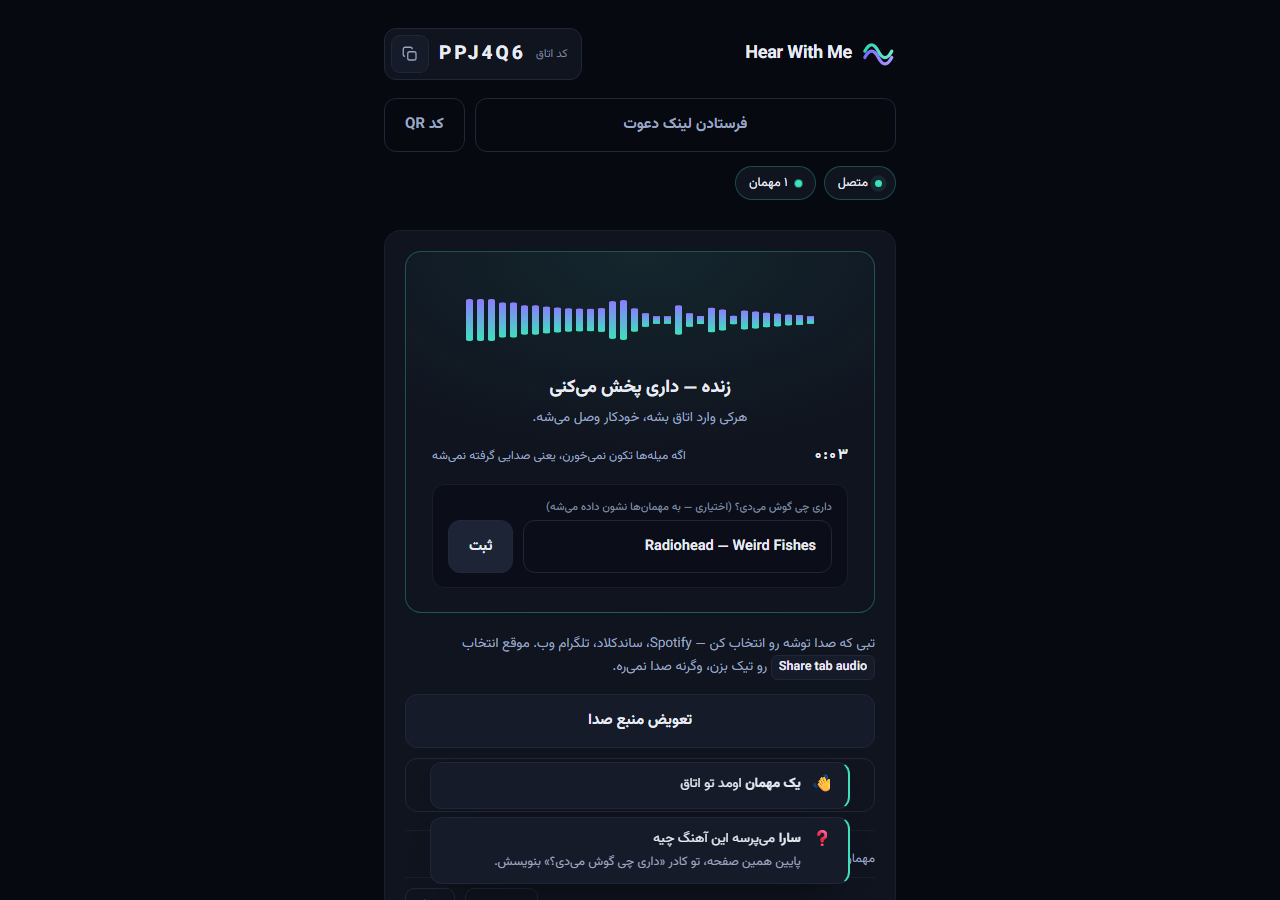
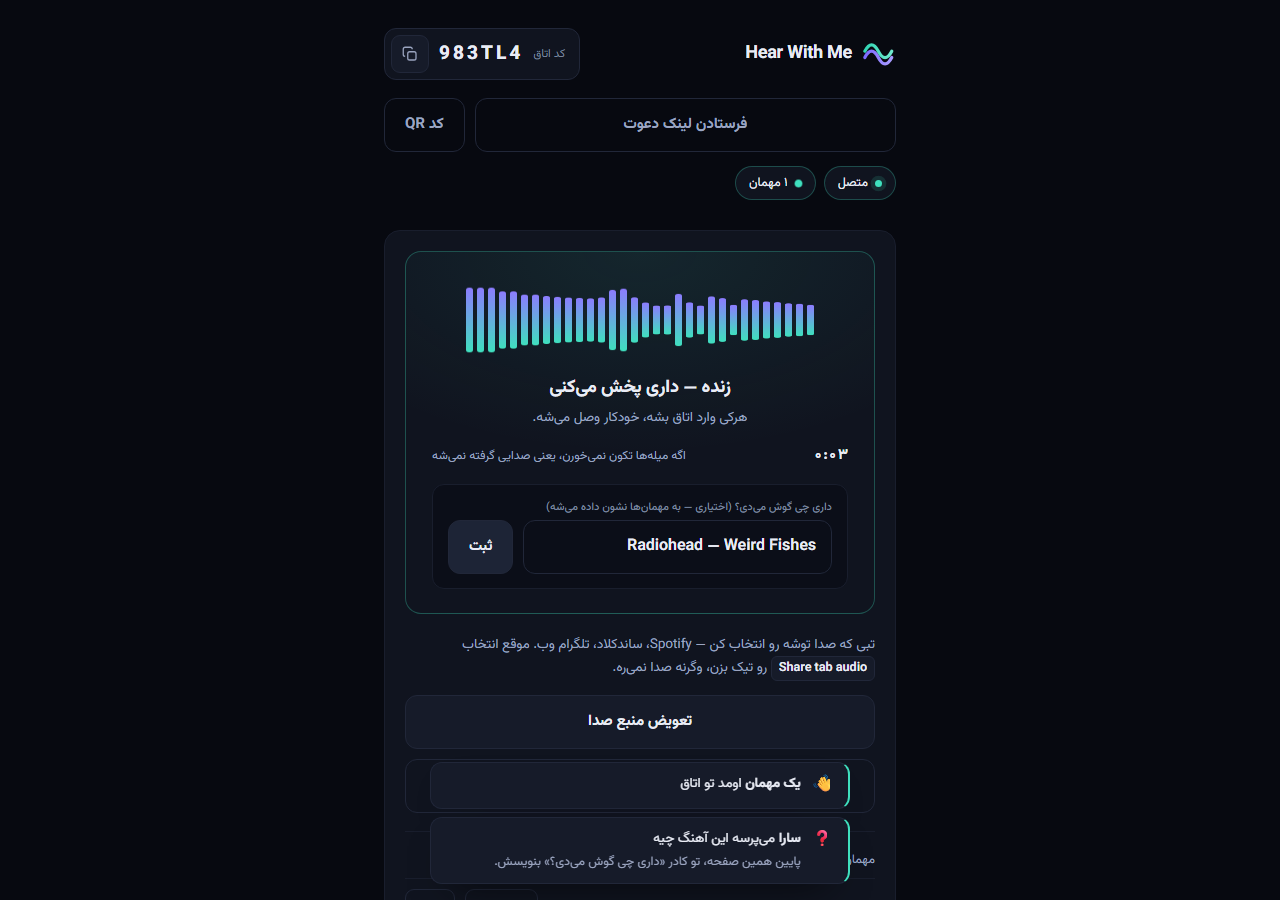
Snapshot of uncommitted UI work before the reach changes
These edits were in the working tree, uncommitted, when the reach work
started (reaction emoji variation selector, code plate, refreshed docs
screenshots). Committed as-is so later changes have a clean base.

diff --git a/public/style.css b/public/style.css
@@ -29,12 +29,20 @@
 }
 
 :root {
+  /* Every native control the page uses — checkboxes, the select's popup, the
+     range track, the scrollbar — is painted by the browser, and without this
+     it paints them for a light page: white boxes on an ink panel. */
+  color-scheme: dark;
+
   /* ground */
   --ink: #070910;
   --ink-2: #0B0E18;
+  --ink-3: #0D111C;   /* a field with the cursor in it */
   --panel: #10141F;
   --panel-2: #161B29;
+  --panel-3: #1D2436; /* the same control, under the pointer */
   --line: #212739;
+  --line-strong: #2E3650;
   --line-soft: #191E2D;
 
   /* type */
@@ -231,14 +239,14 @@ a { color: var(--signal); text-decoration-thickness: 1px; text-underline-offset:
   color: var(--text);
   border-color: var(--line);
 }
-.btn-secondary:hover { background: #1D2436; }
+.btn-secondary:hover { background: var(--panel-3); }
 
 .btn-ghost {
   background: transparent;
   color: var(--muted);
   border-color: var(--line);
 }
-.btn-ghost:hover { color: var(--text); border-color: #2E3650; }
+.btn-ghost:hover { color: var(--text); border-color: var(--line-strong); }
 
 /* An <a> that has to look like the primary action. */
 .btn-link { text-decoration: none; }
@@ -294,6 +302,10 @@ a { color: var(--signal); text-decoration-thickness: 1px; text-underline-offset:
 input[type="text"] {
   width: 100%;
   font: inherit;
+  /* 16px, not the body's 15: below 16 iOS zooms the whole page in the moment
+     the keyboard opens and never zooms back out — on the one field the guest
+     actually types into, holding the phone one-handed. */
+  font-size: 16px;
   padding: 13px 15px;
   min-height: 52px;
   border-radius: var(--r-control);
@@ -302,7 +314,12 @@ input[type="text"] {
   color: var(--text);
   transition: border-color .18s var(--ease), background-color .18s var(--ease);
 }
-input[type="text"]:focus { border-color: var(--signal); background: #0D111C; }
+input[type="text"]:focus { border-color: var(--signal); background: var(--ink-3); }
+/* A field already lights its own border when it takes focus; the offset ring
+   on top of it read as two concentric aqua outlines. Sat against the border,
+   the two become one thicker edge. */
+input[type="text"]:focus-visible,
+.select:focus-visible { outline-offset: 0; }
 /* Placeholders are read, so they meet the same 4.5:1 floor as body text. */
 input::placeholder { color: var(--faint); opacity: 1; }
 
@@ -313,8 +330,10 @@ input::placeholder { color: var(--faint); opacity: 1; }
 .row > input { flex: 1; min-width: 0; }
 .row > .btn { flex: none; }
 
-/* Room codes are read aloud and typed in — treat them as a plate, not prose. */
-.code-input {
+/* Room codes are read aloud and typed in — treat them as a plate, not prose.
+   Qualified with the element: `input[type="text"]` above outranks a bare class,
+   so the plate's weight and size were being handed straight back to body type. */
+input[type="text"].code-input {
   direction: ltr;
   text-align: center;
   text-transform: uppercase;
@@ -339,6 +358,9 @@ input::placeholder { color: var(--faint); opacity: 1; }
   line-height: 1.6;
 }
 .note-strong { color: var(--text); font-weight: 600; }
+/* A note that follows a block it belongs to, rather than sitting inside one. */
+.note-stacked { margin-top: 14px; }
+.below .note-stacked { margin-top: 20px; }
 
 .footer-note {
   margin-top: auto;
@@ -368,10 +390,15 @@ input::placeholder { color: var(--faint); opacity: 1; }
   background: var(--panel);
   border: 1px solid var(--line);
   border-radius: 12px;
+  /* The copy button carries the end padding itself. */
   padding: 6px;
   padding-inline-start: 14px;
 }
-.code-plate .label { font-size: 11.5px; color: var(--faint); }
+/* Once there is nothing left to copy, it has to carry its own. */
+.code-plate.is-bare { padding: 8px 14px; }
+/* Two words that mean nothing broken apart: left to wrap, "کد اتاق" stacked
+   into a column and dragged the whole header a line taller. */
+.code-plate .label { font-size: 11.5px; color: var(--faint); white-space: nowrap; }
 .room-code {
   direction: ltr;
   font-size: 19px;
@@ -394,7 +421,7 @@ input::placeholder { color: var(--faint); opacity: 1; }
   transition: color .18s var(--ease), background-color .18s var(--ease), border-color .18s;
 }
 .icon-btn:hover { color: var(--text); }
-.icon-btn.done { color: var(--signal); border-color: rgba(63,224,190,.4); }
+.icon-btn.done { color: var(--signal); border-color: color-mix(in srgb, var(--signal) 40%, transparent); }
 .icon-btn svg { width: 18px; height: 18px; }
 
 .share-row { margin-bottom: 14px; display: flex; gap: 10px; }
@@ -443,19 +470,24 @@ input::placeholder { color: var(--faint); opacity: 1; }
 }
 /* The name field shares this row with its label and must not push it out. */
 .tool-row input[type="text"] { flex: 1; min-width: 0; max-width: 60%; }
-.tool-label { font-size: 12.5px; color: var(--muted); }
+/* A two-word label opposite a control is a label, not a paragraph: broken over
+   two lines it stops reading as one. */
+.tool-label { font-size: 12.5px; color: var(--muted); white-space: nowrap; }
 .tool-hint { font-size: 12px; color: var(--faint); margin-top: -6px; }
 
 .select {
   font: inherit;
-  font-size: 13.5px;
+  /* Same 16px floor as the text fields, and the same reason: a select under it
+     zooms iOS in on tap. The room page's 46px touch floor applies here too. */
+  font-size: 16px;
   color: var(--text);
   background: var(--ink-2);
   border: 1px solid var(--line);
   border-radius: var(--r-control);
   padding: 9px 12px;
-  min-height: 44px;
+  min-height: 46px;
   cursor: pointer;
+  max-width: 100%;
 }
 
 .toggle {
@@ -518,8 +550,8 @@ input::placeholder { color: var(--faint); opacity: 1; }
   min-height: 34px;
   transition: color .18s var(--ease), border-color .18s var(--ease);
 }
-.link-btn:hover { color: var(--text); border-color: #2E3650; }
-.link-btn.danger:hover { color: var(--st-alert); border-color: rgba(255,124,136,.4); }
+.link-btn:hover { color: var(--text); border-color: var(--line-strong); }
+.link-btn.danger:hover { color: var(--st-alert); border-color: color-mix(in srgb, var(--st-alert) 40%, transparent); }
 
 /* ------------------------------------------------------------- reactions */
 
@@ -541,11 +573,14 @@ input::placeholder { color: var(--faint); opacity: 1; }
   color: var(--muted);
   padding: 10px 15px;
   min-height: 46px;
+  /* The two single-glyph ones would otherwise sit under the touch floor the
+     rest of this row keeps. */
+  min-width: 46px;
   transition: color .18s var(--ease), border-color .18s var(--ease), transform .12s var(--ease);
 }
 .reaction:hover { color: var(--text); }
 .reaction:active { transform: translateY(1px); }
-.reaction.sent { color: var(--signal); border-color: rgba(63,224,190,.45); }
+.reaction.sent { color: var(--signal); border-color: color-mix(in srgb, var(--signal) 45%, transparent); }
 /* A tap that arrived inside the cooldown. Without this the button simply did
    nothing and read as broken. */
 .reaction.cooling { opacity: .45; }
@@ -625,7 +660,7 @@ input::placeholder { color: var(--faint); opacity: 1; }
 }
 .toast-alert {
   border-inline-start-color: var(--st-alert);
-  background: rgba(255, 124, 136, .07);
+  background: color-mix(in srgb, var(--st-alert) 7%, transparent);
 }
 .toast-alert .toast-body b { color: #FFC2C8; }
 .toast.leaving { opacity: 0; transform: translateY(8px); }
@@ -656,7 +691,7 @@ input::placeholder { color: var(--faint); opacity: 1; }
   flex: none;
   transition: background-color .3s var(--ease);
 }
-.pill.live { color: var(--text); border-color: rgba(63,224,190,.28); }
+.pill.live { color: var(--text); border-color: color-mix(in srgb, var(--signal) 28%, transparent); }
 .pill.live .dot {
   background: var(--st-live);
   animation: beat 2.4s ease-in-out infinite;
@@ -690,7 +725,7 @@ input::placeholder { color: var(--faint); opacity: 1; }
 }
 .stage[data-state="waiting"] { --st: var(--st-wait); }
 .stage[data-state="connecting"] { --st: var(--st-connect); }
-.stage[data-state="live"] { --st: var(--st-live); border-color: rgba(63, 224, 190, .3); }
+.stage[data-state="live"] { --st: var(--st-live); border-color: color-mix(in srgb, var(--signal) 30%, transparent); }
 .stage[data-state="stopped"] { --st: var(--st-idle); }
 .stage[data-state="dropped"], .stage[data-state="error"] { --st: var(--st-alert); }
 
@@ -826,7 +861,6 @@ input::placeholder { color: var(--faint); opacity: 1; }
   transform: scaleY(0.04);
   transform-origin: center; /* mirrored around the centre line */
   will-change: transform;
-  transition: background-color .3s var(--ease);
 }
 .meter.idle span {
   background: var(--panel-2);
@@ -863,6 +897,8 @@ input::placeholder { color: var(--faint); opacity: 1; }
   word-break: break-word;
   text-align: start;
 }
+/* The host's version of the same block is a labelled field, not a read-out. */
+.now-playing--field { padding: 14px 15px; }
 .now-playing .np-label {
   display: block;
   font-size: 11px;
@@ -896,8 +932,8 @@ input::placeholder { color: var(--faint); opacity: 1; }
 .mute-btn .wave-off { display: none; }
 .mute-btn[aria-pressed="true"] {
   color: var(--st-alert);
-  border-color: rgba(255, 124, 136, .35);
-  background: rgba(255, 124, 136, .1);
+  border-color: color-mix(in srgb, var(--st-alert) 35%, transparent);
+  background: color-mix(in srgb, var(--st-alert) 10%, transparent);
 }
 .mute-btn[aria-pressed="true"] .wave-on { display: none; }
 .mute-btn[aria-pressed="true"] .wave-off { display: inline; }
@@ -921,8 +957,8 @@ input::placeholder { color: var(--faint); opacity: 1; }
 .notice-text { flex: 1; }
 /* Something that went wrong looks different from something that just changed. */
 .notice-alert {
-  background: rgba(255, 124, 136, .1);
-  border-color: rgba(255, 124, 136, .3);
+  background: color-mix(in srgb, var(--st-alert) 10%, transparent);
+  border-color: color-mix(in srgb, var(--st-alert) 30%, transparent);
   color: #FFC2C8;
 }
 .notice-close {
@@ -1005,12 +1041,20 @@ kbd {
   .wavefield { height: 420px; inset: -80px -50vw auto; }
 }
 
-/* Guests are overwhelmingly on a phone: nothing under 46px, no zooming. The
-   wordmark gives way to the mark alone here — the room code is what the header
-   is actually for. */
+/* Guests are overwhelmingly on a phone: nothing under 46px, no zooming. On the
+   room page the wordmark gives way to the mark alone — the code plate is what
+   that header is actually for, and the two together no longer fit. The landing
+   page keeps its wordmark: there the header is the only place the name appears. */
+@media (max-width: 420px) {
+  .room-head .brand-name { display: none; }
+}
 @media (max-width: 380px) {
   .brand-name { font-size: 16px; }
   .room-code { font-size: 17px; letter-spacing: .12em; }
+  /* Below this the label and its control stop fitting on one line without
+     squeezing one of them; stacked, both keep their full width. */
+  .tool-row { flex-direction: column; align-items: stretch; gap: 6px; }
+  .tool-row input[type="text"] { max-width: 100%; }
 }
 
 @media (prefers-reduced-motion: reduce) {

diff --git a/public/room.html b/public/room.html
@@ -134,7 +134,7 @@
             <span class="live-hint" id="hostMeterHint">اگه میلهها تکون نمیخورن، یعنی صدایی گرفته نمیشه</span>
           </div>
 
-          <div class="now-playing" style="padding:14px 15px;">
+          <div class="now-playing now-playing--field">
             <label class="np-label" for="nowPlayingInput">داری چی گوش میدی؟ (اختیاری — به مهمانها نشون داده میشه)</label>
             <div class="row">
               <input type="text" id="nowPlayingInput" maxlength="120" placeholder="مثلاً Radiohead — Weird Fishes" />
@@ -216,7 +216,9 @@
            duplicates the volume slider directly above — the host cannot fix
            your volume, only a source that is quiet at full blast. -->
       <div class="reactions" id="reactionRow">
-        <button class="reaction" type="button" data-kind="love" aria-label="دوستش دارم">❤</button>
+        <!-- With the emoji variation selector: bare ❤ falls back to the text
+             glyph on most platforms and sat here grey next to a colour 🔥. -->
+        <button class="reaction" type="button" data-kind="love" aria-label="دوستش دارم">❤</button>
         <button class="reaction" type="button" data-kind="fire" aria-label="عالیه">🔥</button>
         <button class="reaction" type="button" data-kind="whatsthis">این چیه؟</button>
         <button class="reaction" type="button" data-kind="quiet">صدا کمه</button>
@@ -262,8 +264,8 @@
         </label>
       </div>
 
-      <p class="note" id="backgroundHint" style="display:none; margin-top:14px;">تا وقتی این صفحه بازه صدا پخش میشه. اگه گوشی رو قفل کنی یا از مرورگر بیرون بری پخش قطع میشه — این محدودیت خود مرورگرهاست. برگردی به همین تب، خودکار وصل میشه.</p>
-      <p class="note" id="volumeHint" style="display:none; margin-top:14px;">این دستگاه اجازهی تنظیم شدت صدا از داخل صفحه رو نمیده — با دکمههای خود دستگاه کم و زیادش کن. دکمهی کناری صدا رو کامل قطع/وصل میکنه.</p>
+      <p class="note note-stacked" id="backgroundHint" style="display:none;">تا وقتی این صفحه بازه صدا پخش میشه. اگه گوشی رو قفل کنی یا از مرورگر بیرون بری پخش قطع میشه — این محدودیت خود مرورگرهاست. برگردی به همین تب، خودکار وصل میشه.</p>
+      <p class="note note-stacked" id="volumeHint" style="display:none;">این دستگاه اجازهی تنظیم شدت صدا از داخل صفحه رو نمیده — با دکمههای خود دستگاه کم و زیادش کن. دکمهی کناری صدا رو کامل قطع/وصل میکنه.</p>
     </div>
 
     <p class="footer-note">صدا مستقیم بین مرورگر میزبان و مرورگر تو رد و بدل میشه و از سرور عبور نمیکنه.</p>

diff --git a/public/app.js b/public/app.js
@@ -131,19 +131,33 @@ ui.reactionRow.addEventListener('click', (e) => {
 // Ending the room, from any of the ways it can end
 // ---------------------------------------------------------------------------
 
+// A room we are not in any more still had a header offering to invite people
+// into it and a chip counting listeners in it. Every one of those readings is
+// now either stale or, for a room that never existed, an invitation to a dead
+// link — so the dead end keeps only the code that failed.
+function showDeadEnd(title, sub) {
+  show(ui.hostCard, false);
+  show(ui.guestCard, false);
+  ui.notFoundTitle.textContent = title;
+  ui.notFoundSub.textContent = sub;
+  show(ui.notFoundCard, true);
+
+  show(ui.shareRow, false);
+  ui.qrPanel.hidden = true;
+  ui.qrBtn.setAttribute('aria-expanded', 'false');
+  show(ui.copyLinkBtn, false);
+  ui.codePlate.classList.add('is-bare');
+  show(ui.listenerPill, false);
+  show(ui.qualityPill, false);
+}
+
 function endRoom(title, sub) {
   terminated = true;
   events.close();
   host.endRoom();
   guest.endRoom();
 
-  show(ui.hostCard, false);
-  show(ui.guestCard, false);
-  ui.notFoundTitle.textContent = title;
-  ui.notFoundSub.textContent = sub;
-  show(ui.notFoundCard, true);
-  show(ui.shareRow, false);
-  ui.qrPanel.hidden = true;
+  showDeadEnd(title, sub);
   ui.connectionPill.classList.remove('live');
   ui.connectionText.textContent = 'اتاق تمام شد';
 }
@@ -345,9 +359,9 @@ if (new URLSearchParams(window.location.search).has('debug')) {
 // Guests need nothing but a browser that can receive WebRTC — which is all of
 // them — but saying so plainly beats a page that simply never connects.
 if (!window.RTCPeerConnection) {
-  show(ui.hostCard, false);
-  show(ui.guestCard, false);
-  ui.notFoundTitle.textContent = 'این مرورگر پخش زنده رو پشتیبانی نمیکنه';
-  ui.notFoundSub.textContent = 'با Chrome، Edge، Firefox یا Safari باز کن — این صفحه به WebRTC نیاز داره.';
-  show(ui.notFoundCard, true);
+  showDeadEnd(
+    'این مرورگر پخش زنده رو پشتیبانی نمیکنه',
+    'با Chrome، Edge، Firefox یا Safari باز کن — این صفحه به WebRTC نیاز داره.',
+  );
+  ui.connectionText.textContent = 'پشتیبانی نمیشه';
 }

diff --git a/public/index.html b/public/index.html
@@ -98,7 +98,7 @@
         <p class="field-error" id="joinError" role="alert"></p>
       </div>
 
-      <p class="note" style="margin-top:20px;">
+      <p class="note note-stacked">
         <span class="note-strong">میزبان</span> باید روی دسکتاپ و با <span class="ltr">Chrome</span> یا <span class="ltr">Edge</span> باشه — این محدودیت خود مرورگرهاست. <span class="note-strong">مهمانها</span> از هر دستگاه و هر مرورگری وصل میشن.
       </p>
       </div>

diff --git a/public/shared/reactions.js b/public/shared/reactions.js
@@ -16,7 +16,9 @@
 // the `todo` that says what to do about it.
 export const REACTIONS = {
   love: {
-    emoji: '❤',
+    // With the variation selector: bare ❤ renders as a grey text glyph beside
+    // the colour ones.
+    emoji: '❤',
     text: 'دوستش داره',
     cheer: true,
   },

diff --git a/public/js/dom.js b/public/js/dom.js
@@ -8,6 +8,7 @@ const byId = (id) => document.getElementById(id);
 
 export const ui = Object.freeze({
   // header and status
+  codePlate: document.querySelector('.code-plate'),
   roomCode: byId('roomCode'),
   connectionPill: byId('connectionPill'),
   connectionText: byId('connectionText'),
